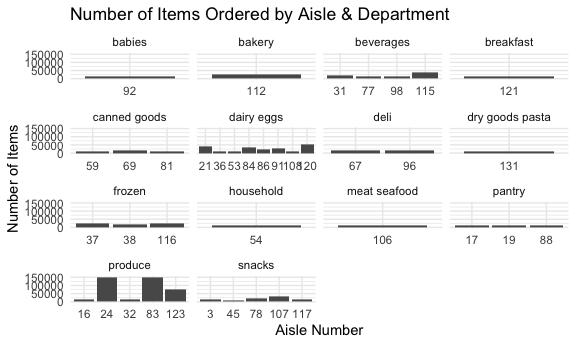
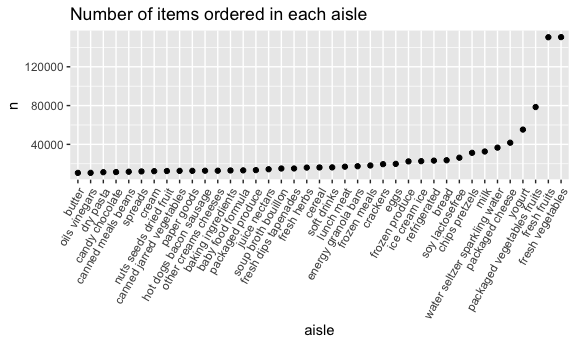
finished problem 2

diff --git a/p8105_hw3_bac2214.md b/p8105_hw3_bac2214.md
@@ -78,14 +78,13 @@ There are 134 total aisles. The top 3 aisles are in the table below!
 
 ``` r
 instacart |> 
-  group_by(aisle_id, department) |> 
-  summarize(n_obs = n()) |> 
-  filter(n_obs > 10000)|> 
-  ggplot( aes(x = as.factor(aisle_id), y = n_obs)) +
-  geom_bar(stat = "identity") +
-  labs(title = "Number of Items Ordered by Aisle & Department", x = "Aisle Number", y = "Number of Items") +
-  theme_minimal() +
-  facet_wrap(~ department, scales = "free_x") 
+  count(aisle) |> 
+  filter(n > 10000) |> 
+  mutate(aisle = fct_reorder(aisle, n)) |> 
+  ggplot(aes(x = aisle, y = n)) + 
+  geom_point() + 
+  labs(title = "Number of items ordered in each aisle") +
+  theme(axis.text.x = element_text(angle = 60, hjust = 1))
 ```
 
 <img src="p8105_hw3_bac2214_files/figure-gfm/unnamed-chunk-5-1.png" width="90%" />
@@ -137,3 +136,56 @@ instacart |> janitor::clean_names() |>
 |:-----------------|------:|------:|------:|------:|------:|------:|------:|
 | Coffee Ice Cream | 13.77 | 14.32 | 15.38 | 15.32 | 15.22 | 12.26 | 13.83 |
 | Pink Lady Apples | 13.44 | 11.36 | 11.70 | 14.25 | 11.55 | 12.78 | 11.94 |
+
+### Question 2
+
+#### Loading the data
+
+``` r
+data("brfss_smart2010")
+```
+
+#### Cleaning the dataset
+
+``` r
+brfss_df = brfss_smart2010 |> 
+  janitor::clean_names() |> 
+  filter(topic == "Overall Health", response %in% c("Poor","Fair", "Good", "Very Good", "Excellent")) |> 
+  rename(crude_prevalence_percent = data_value) |> 
+  select(year:sample_size, crude_prevalence_percent,everything(), -data_value_type, -data_value_unit) |> 
+  mutate(response = factor(response, levels = c("Poor", "Fair", "Good", "Very Good", "Excellent")))
+```
+
+> In 2002, which states were observed at 7 or more locations? What about
+> in 2010?
+
+``` r
+states_2002 = brfss_df |> 
+  filter(year == 2002) |> 
+  group_by(locationabbr) |>      
+  summarise(n_obs = n_distinct(locationdesc)) |>   
+  filter(n_obs >= 7) |>      
+  pull(locationabbr)   
+  
+states_2010 = brfss_df |> 
+  filter(year == 2010) |> 
+  group_by(locationabbr) |>      
+  summarise(n_obs = n_distinct(locationdesc)) |>   
+  filter(n_obs >= 7) |>      
+  pull(locationabbr) 
+```
+
+The states that were observed at 7 or more locations in 2002 were CT,
+FL, MA, NC, NJ, PA. The states that were observed at 7 or more locations
+in 2010 were CA, CO, FL, MA, MD, NC, NE, NJ, NY, OH, PA, SC, TX, WA.
+
+> Construct a dataset that is limited to Excellent responses, and
+> contains, year, state, and a variable that averages the data_value
+> across locations within a state. Make a “spaghetti” plot of this
+> average value over time within a state (that is, make a plot showing a
+> line for each state across years – the geom_line geometry and group
+> aesthetic will help).
+
+> Make a two-panel plot showing, for the years 2006, and 2010,
+> distribution of data_value for responses (“Poor” to “Excellent”) among
+> locations in NY State.
